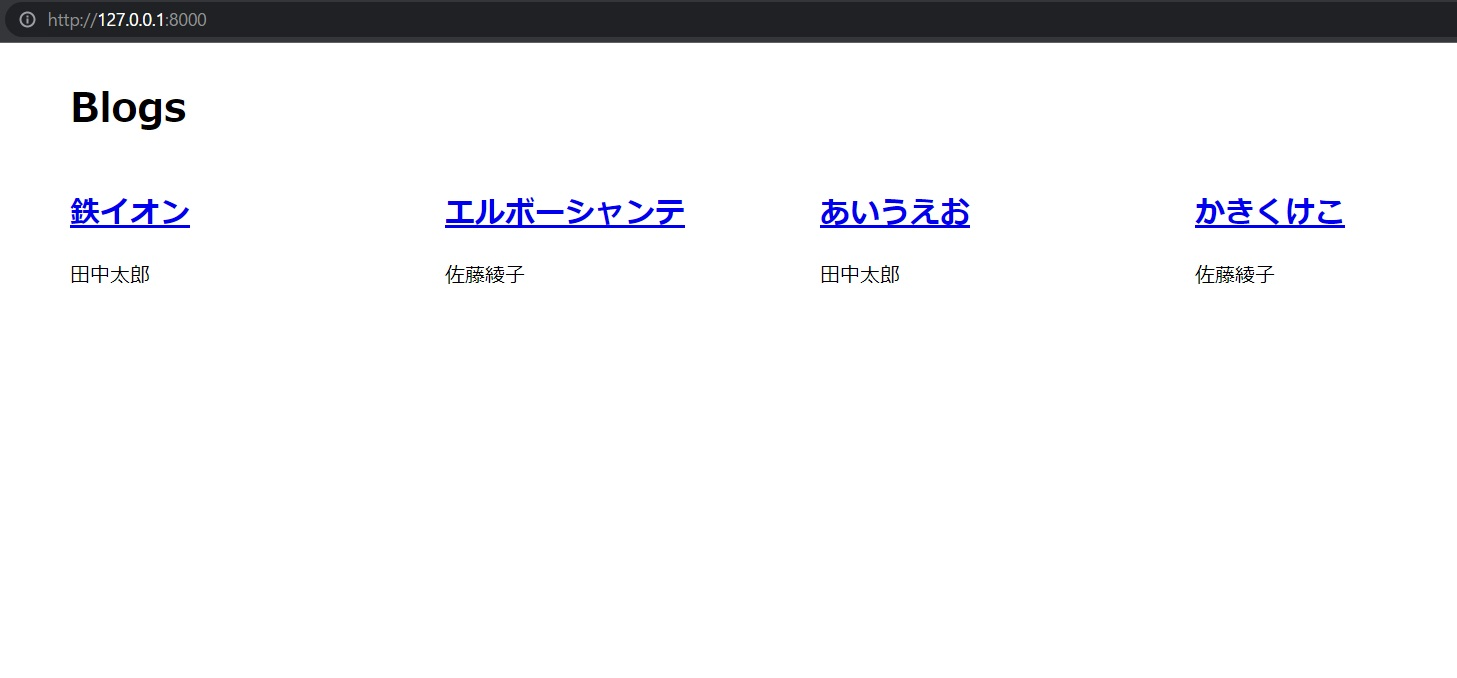
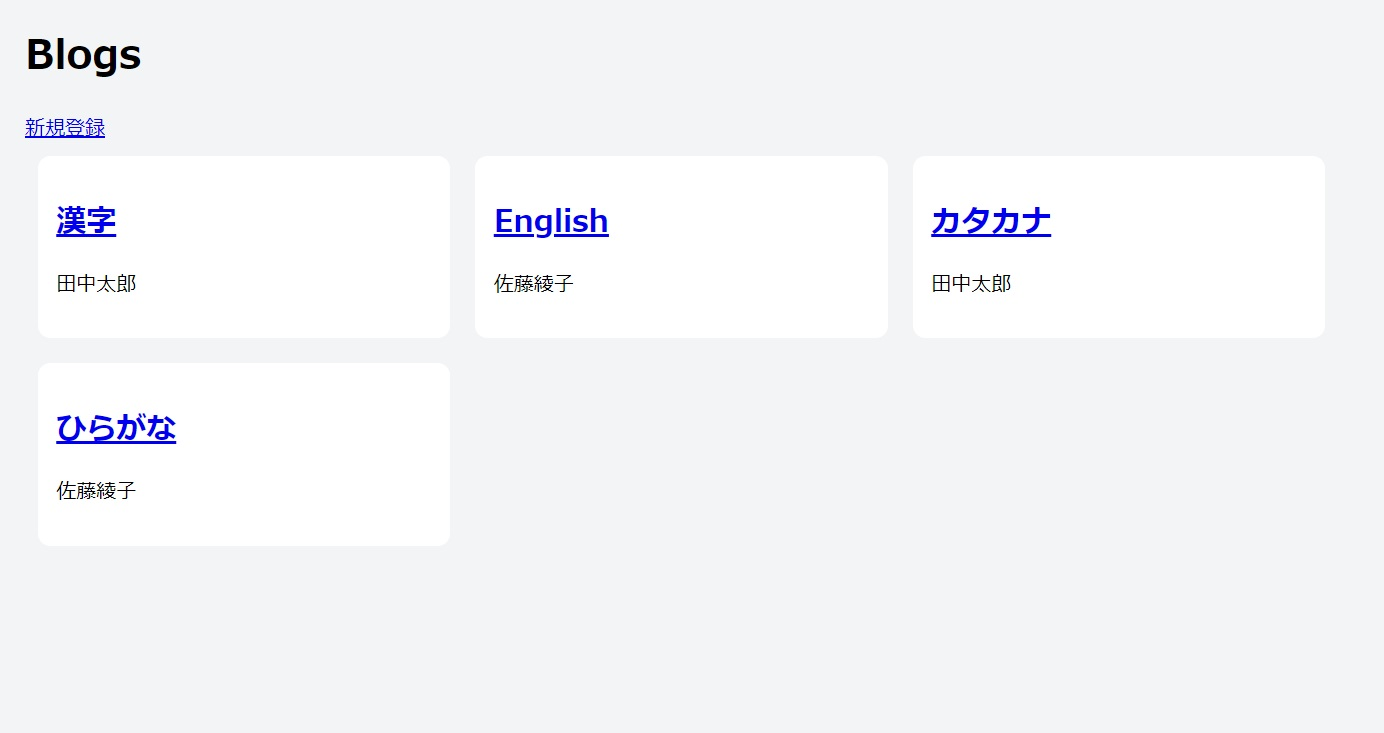
complete

diff --git a/blog/static/blog.css b/blog/static/blog.css
@@ -3,6 +3,10 @@
     justify-content:center;
 }
 
+body{
+    background-color: #f3f4f6;
+}
+
 .content{
     width:1500px;
     max-width:80%;
@@ -21,6 +25,10 @@
 .content__section__article{
     width:300px;
     max-width:33%;
+    background-color: white;
+    margin: 10px;
+    padding: 15px;
+    border-radius: 10px;
 }
 
 .form-group{
@@ -35,3 +43,4 @@ label{
 select{
     width:100px;
 }
+

diff --git a/katachi/settings.py b/katachi/settings.py
@@ -38,7 +38,6 @@ INSTALLED_APPS = [
     'django.contrib.sessions',
     'django.contrib.messages',
     'django.contrib.staticfiles',
-    'ex1.apps.Ex1Config',
     'blog.apps.BlogConfig'
 ]
 

diff --git a/README.md b/README.md
@@ -1,7 +1,8 @@
 <h1>Django練習課題</h1>
 
 <hr>
-本課題では、ユーザー共有型のブログアプリを想定しています。ブログ記事によって著者をユーザーから選び、記事を投稿できるようにしましょう。またユーザー詳細画面では、ユーザーが書いた記事が一覧で表示できるようにします。以下の流れで課題を進めてみて下さい。<br/>
+本課題では、ブログアプリを想定して開発して頂きます。ブログアプリは複数のユーザーによって管理されることを想定しています。ブログ記事を投稿する際には、著者情報をユーザーから選択できるようにしていきます。またユーザー詳細画面では、ユーザーが書いた記事が一覧で表示できるようにします。<br/>
+それでは以下の流れで課題を進めてみて下さい。<br/>
 なおソースコードはアップロードしている通りなので、わからない場所があったら適宜確認しながら進めてみて下さいね。<br/>
 また<a href="https://github.com/1110-t/DjangoExersise/blob/master/Django.pdf"><b>Django.pdf</b></a>にてDjangoでアプリケーションを作る流れについて概説しております。難しく感じられる方は最初にこちらの資料に目を通して頂いた方がいいかもしれません。
 <hr>
